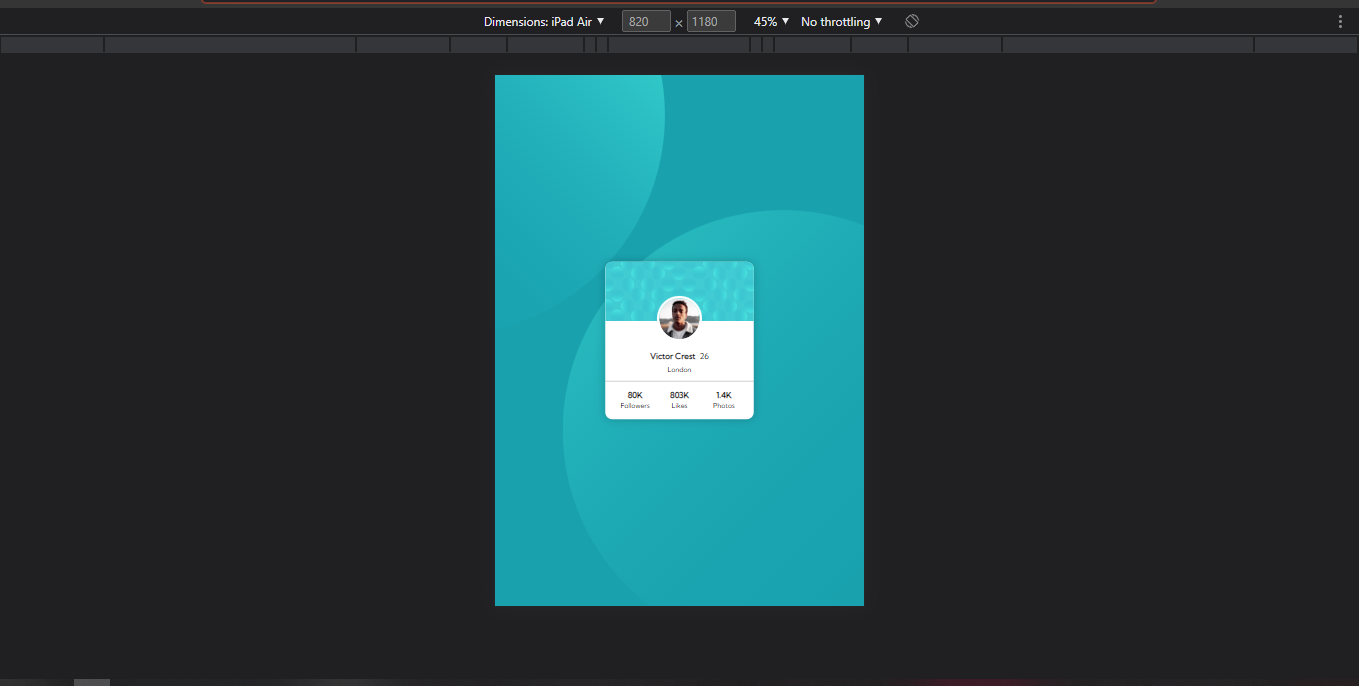
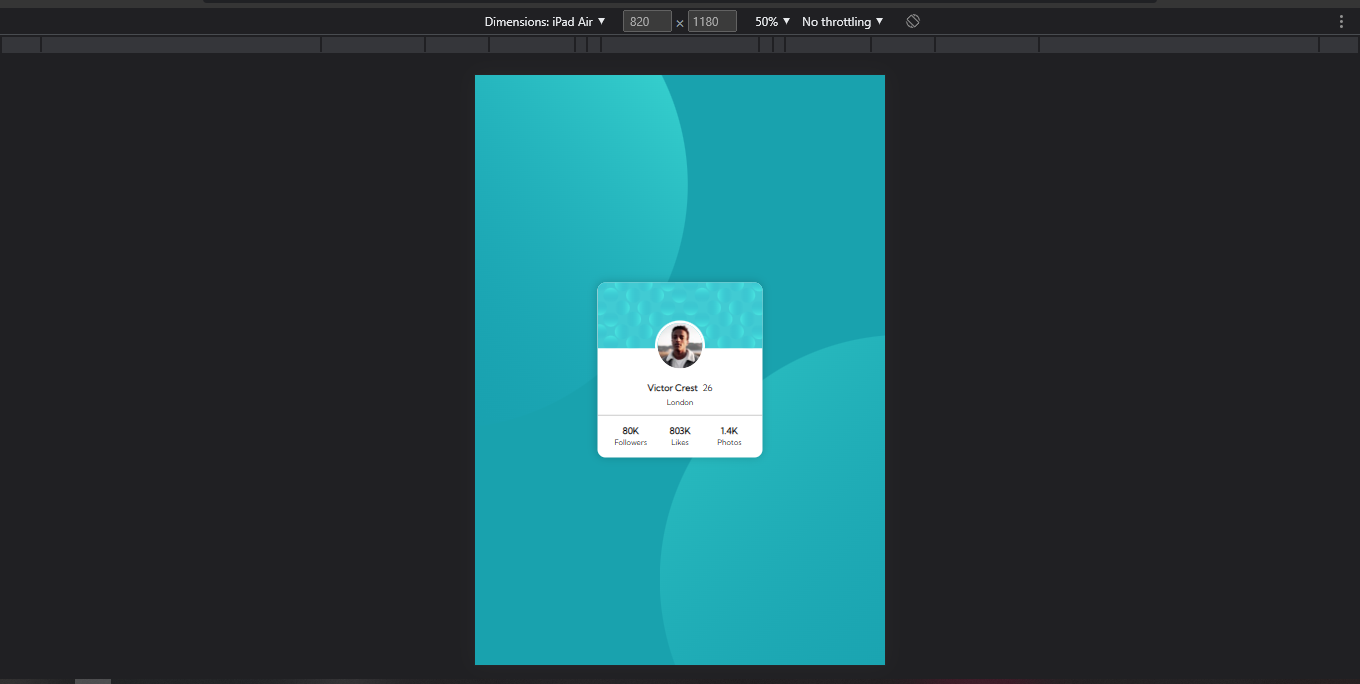
complete

diff --git a/index.html b/index.html
@@ -19,63 +19,43 @@
     </head>
     <body>
         <main>
-            <img
-                class="profile-bg-image"
-                src="img/bg-pattern-card.svg"
-                alt=""
-                aria-hidden="true" />
+            <section>
+                <img
+                    class="profile-bg-image"
+                    src="img/bg-pattern-card.svg"
+                    alt=""
+                    aria-hidden="true" />
 
-            <img
-                class="profile-picture"
-                src="img/image-victor.jpg"
-                alt=""
-                aria-hidden="true" />
+                <img
+                    class="profile-picture"
+                    src="img/image-victor.jpg"
+                    alt=""
+                    aria-hidden="true" />
 
-            <h1 class="profile-name" tabindex="0" title="Name, Surname and Age">
-                Victor Crest
-                <span class="profile-age">&nbsp;26</span>
-            </h1>
+                <h1 class="profile-name" title="Name, Surname and Age">
+                    Victor Crest
+                    <span class="profile-age">&nbsp;26</span>
+                </h1>
 
-            <p
-                class="profile-location"
-                tabindex="0"
-                title="Victor Crest's Location">
-                London
-            </p>
-            <span class="line"></span>
+                <p class="profile-location" title="Victor Crest's Location">
+                    London
+                </p>
+                <span class="line"></span>
 
-            <table class="socials">
-                <tr>
-                    <th
-                        aria-label="Eighty thousand"
-                        class="stat-item"
-                        tabindex="0">
-                        80K
-                    </th>
-                    <th
-                        aria-label="Eight hundred and three thousand"
-                        class="stat-item"
-                        tabindex="0">
-                        803K
-                    </th>
-                    <th
-                        aria-label="One thousand four hunderd"
-                        class="stat-item"
-                        tabindex="0">
-                        1.4K
-                    </th>
-                </tr>
+                <table class="socials">
+                    <tr>
+                        <th class="stat-item">80K</th>
+                        <th class="stat-item">803K</th>
+                        <th class="stat-item">1.4K</th>
+                    </tr>
 
-                <tr>
-                    <td class="title-item" tabindex="0" title="Followers">
-                        Followers
-                    </td>
-                    <td class="title-item" tabindex="0" title="Likes">Likes</td>
-                    <td class="title-item" tabindex="0" title="Photos">
-                        Photos
-                    </td>
-                </tr>
-            </table>
+                    <tr>
+                        <td class="title-item">Followers</td>
+                        <td class="title-item">Likes</td>
+                        <td class="title-item">Photos</td>
+                    </tr>
+                </table>
+            </section>
         </main>
     </body>
 </html>

diff --git a/css/main.css b/css/main.css
@@ -45,18 +45,19 @@
 body {
     width: 100vw;
     height: 100vh;
-    background: url(../img/bg-pattern-top.svg) no-repeat -600px -400px,
-        url(../img/bg-pattern-bottom.svg) no-repeat 150px 300px,
-        var(--primary-dark-cyan);
+    background-color: var(--primary-dark-cyan);
+    background-image: url(../img/bg-pattern-top.svg),
+        url(../img/bg-pattern-bottom.svg);
+    background-repeat: no-repeat, no-repeat;
+    background-position: right 48vw bottom 40vh, left 45vw top 44vh;
     font-family: var(--font-family);
     font-size: 0.9375rem;
-
     display: flex;
     align-items: center;
     justify-content: center;
 }
 
-main {
+section {
     width: 20.625rem;
     height: 21.875rem;
     overflow: hidden;
@@ -114,11 +115,4 @@ main {
 .stat-item,
 .title-item {
     width: 33.33%;
-}
-
-h1,
-p,
-th,
-td {
-    cursor: pointer;
 }

diff --git a/README-template.md b/README-template.md
@@ -9,11 +9,9 @@ This is a solution to the [Profile card component challenge on Frontend Mentor](
     -   [Screenshot](#screenshot)
     -   [Links](#links)
 -   [My process](#my-process)
-
     -   [Built with](#built-with)
     -   [Continued development](#continued-development)
     -   [Useful resources](#useful-resources)
-
 -   [Author](#author)
 
 ## Overview
